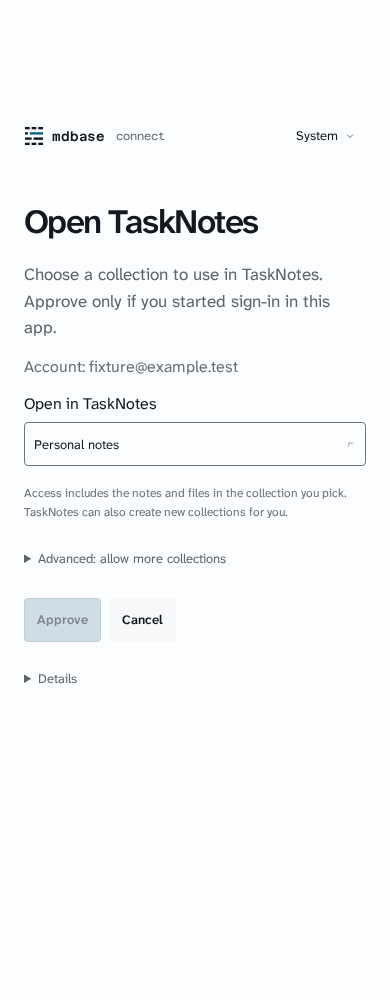
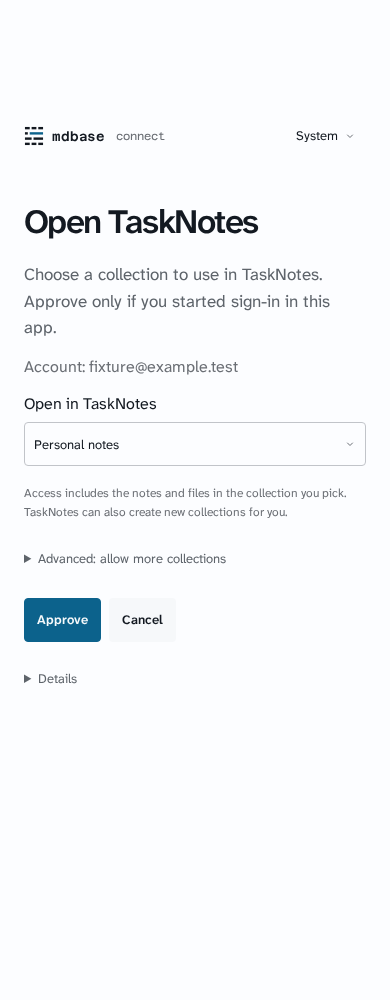
preserve approval popup opener and clarify enabled primary action

Changed region(s): [[0.0615, 0.589, 0.2769, 0.651]]

diff --git a/services/server/src/portal-popup.test.ts b/services/server/src/portal-popup.test.ts
@@ -1,0 +1,40 @@
+import {mkdtemp, mkdir, writeFile, rm} from "node:fs/promises";
+import {resolve, join} from "node:path";
+import {afterAll, beforeAll, describe, expect, it} from "vitest";
+import {buildApp} from "./app.js";
+import {createDatabase} from "./db.js";
+
+const resources:Array<()=>Promise<void>>=[];
+afterAll(async()=>{while(resources.length)await resources.pop()!();});
+const id="00000000-0000-4000-8000-000000000001",publicUrl="https://connect.example";
+async function fixture(){
+  const root=resolve(".tmp");await mkdir(root,{recursive:true});const portalDist=await mkdtemp(join(root,"portal-popup-"));
+  resources.push(()=>rm(portalDist,{recursive:true,force:true}));await writeFile(join(portalDist,"index.html"),"<!doctype html><title>synthetic portal</title>");
+  const db=await createDatabase("memory");resources.push(()=>db.end());
+  const {app}=await buildApp({db,publicUrl,portalDist});resources.push(()=>app.close());return app;
+}
+describe("approval HTML opener policy",()=>{
+  // These GET-only cases share one isolated fixture; no accounts or grants mutate.
+  let app:Awaited<ReturnType<typeof fixture>>;
+  beforeAll(async()=>{app=await fixture();});
+  it.each([`/pair/${id}`,`/pair/${id}/?source=popup`,`/authorize/${id}`,"/device?user_code=ABCD-EFGH"])("retains app opener for %s without relaxing CSP",async url=>{
+    const reply=await app.inject({url,headers:{accept:"text/html"}});
+    expect(reply.statusCode).toBe(200);expect(reply.headers["cross-origin-opener-policy"]).toBe("unsafe-none");
+    expect(reply.headers["content-security-policy"]).toContain("frame-ancestors 'none'");
+    expect(reply.headers["content-security-policy"]).toContain("object-src 'none'");
+    expect(reply.headers["x-content-type-options"]).toBe("nosniff");
+  });
+  it.each(["/login","/signup","/reset-password"])("retains flow opener across %s only with a same-origin approval return",async path=>{
+    const reply=await app.inject({url:`${path}?return_to=${encodeURIComponent(`${publicUrl}/pair/${id}`)}`,headers:{accept:"text/html"}});
+    expect(reply.statusCode).toBe(200);expect(reply.headers["cross-origin-opener-policy"]).toBe("unsafe-none");
+  });
+  it.each(["/","/login","/settings",`/pair/${id}/extra`,`/pair/not-an-id`,`/pairing/${id}`,`/authorize/not-an-id`,"/login?return_to=https%3A%2F%2Fforeign.example%2Fpair%2F"+id,"/signup?return_to=%2Fsettings"])("keeps ordinary isolation for %s",async url=>{
+    const reply=await app.inject({url,headers:{accept:"text/html"}});
+    expect(reply.headers["cross-origin-opener-policy"]).toBe("same-origin");
+  });
+  it("does not relax API or non-HTML responses",async()=>{
+    for(const request of [{url:"/v1/auth/config"},{url:`/pair/${id}`,headers:{accept:"application/json"}}]){
+      const reply=await app.inject(request);expect(reply.headers["cross-origin-opener-policy"]).toBe("same-origin");
+    }
+  });
+});

diff --git a/services/server/src/app.ts b/services/server/src/app.ts
@@ -625,6 +625,20 @@ export async function buildApp(options: BuildOptions) {
     await app.register(fastifyStatic, { root: resolve(options.portalDist), wildcard: false });
     app.setNotFoundHandler((request, reply) => {
       if (request.method === "GET" && request.headers.accept?.includes("text/html")) {
+        // Cross-origin app popups need their original WindowProxy to remain live.
+        // Even same-origin-allow-popups severs an incoming cross-origin opener.
+        // Keep other portal pages/APIs and all other Helmet protections unchanged.
+        const page = new URL(request.url, publicUrl);
+        const approvalPath = (path: string) => /^\/(?:pair|authorize)\/[0-9a-f]{8}-(?:[0-9a-f]{4}-){3}[0-9a-f]{12}\/?$/i.test(path) || path === "/device";
+        let approval = approvalPath(page.pathname);
+        const returnTo = page.searchParams.get("return_to");
+        if (!approval && returnTo && ["/login", "/signup", "/reset-password"].includes(page.pathname)) {
+          try {
+            const target = new URL(returnTo, publicUrl);
+            approval = target.origin === new URL(publicUrl).origin && approvalPath(target.pathname);
+          } catch { /* malformed return targets retain the ordinary policy */ }
+        }
+        if (approval) reply.header("Cross-Origin-Opener-Policy", "unsafe-none");
         return reply.sendFile("index.html");
       }
       return reply.code(404).send(apiError("not_found", "Not found."));

diff --git a/apps/portal/src/styles.css b/apps/portal/src/styles.css
@@ -928,6 +928,11 @@ select {
   min-width: 0;
 }
 
+/* Consent becoming available must look enabled immediately, not fade from gray. */
+.installation-approval .mdbase-button.is-primary {
+  transition-property: border-color;
+}
+
 .installation-approval .installation-account-label {
   margin-top: var(--space-4);
   color: var(--color-text-muted);

diff --git a/docs/screenshots/device-collection-picker/README.md b/docs/screenshots/device-collection-picker/README.md
@@ -2,7 +2,7 @@
 
 Synthetic TaskNotes request, Personal notes and Work notes; no real account or device data. Captured with an isolated headless browser against a local production portal build. Browser/server were closed after each run.
 
-The same request and viewport settings are used before and after. The old 390px page overflowed horizontally; its image is cropped to the actual 390px viewport. Desktop is 1440px.
+The same request and viewport settings are used before and after. The old 390px page overflowed horizontally; its image is cropped to the actual 390px viewport. Desktop is 1440px. Refreshed after images assert the action is enabled and wait for styling to settle; the earlier desktop capture caught the disabled-to-enabled color transition. Enabled primary colors now appear immediately after a valid choice.
 
 | Viewport | Before | After |
 | --- | --- | --- |

diff --git a/changelog.d/portal-device-collection-picker.md b/changelog.d/portal-device-collection-picker.md
@@ -1,3 +1,3 @@
 ## Changed
 
-- Simplified device approval to one named collection picker. Choose an existing collection or “New collection…” and enter its name; Approve creates and opens it. Additional collection access and technical details stay behind disclosures. Existing access and per-collection authorization checks are unchanged.
+- Simplified device approval to one named collection picker. Choose an existing collection or “New collection…” and enter its name; Approve creates and opens it. Additional collection access and technical details stay behind disclosures. The primary action becomes visibly enabled immediately after a valid choice. Existing access and per-collection authorization checks are unchanged.

diff --git a/changelog.d/approval-popup-opener.md b/changelog.d/approval-popup-opener.md
@@ -1,0 +1,3 @@
+## Fixed
+
+- Keep pairing and authorization popups connected to the app that opened them, so the app can close the window when sign-in finishes. Only approval pages and their same-origin sign-in return flow use this policy; ordinary portal pages and API protections are unchanged.
